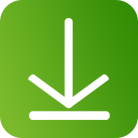
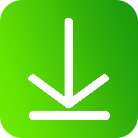
Changing the green-download image, adding settings to the settings dropdown menu, adding event handler for loading errors

diff --git a/Organic Browser/Organic Browser/Controls/SettingsDropdownControl.xaml b/Organic Browser/Organic Browser/Controls/SettingsDropdownControl.xaml
@@ -26,8 +26,8 @@
     <Border BorderThickness="0.5" BorderBrush="#FF131313">
     <StackPanel Orientation="Vertical">
         <Label x:Name="setHomePageLabel">Set as home page</Label>
-        <Label>Setting2</Label>
-        <Label>Setting3</Label>
+        <Label x:Name="history">History</Label>
+            <Label x:Name="exit">Exit</Label>
     </StackPanel>
     </Border>
 </UserControl>

diff --git a/Organic Browser/Organic Browser/Utils/BrowserTab.cs b/Organic Browser/Organic Browser/Utils/BrowserTab.cs
@@ -17,7 +17,7 @@ namespace Organic_Browser.Utils
         public ChromiumWebBrowser WebBrowser { get; set; }          // Web Browser control
 
         // Private -  Read only data
-        private readonly Regex UrlRegex = new Regex(@"^(http:\/\/www\.|https:\/\/www\.|http:\/\/|https:\/\/)?[a-z0-9]+([\-\.]{1}[a-z0-9]+)*\.[a-z]{2,5}(:[0-9]{1,5})?(\/.*)?$", RegexOptions.Compiled | RegexOptions.Compiled);
+        private readonly Regex UrlRegex = new Regex(@"^(http:\/\/www\.|https:\/\/www\.|http:\/\/|https:\/\/)?[a-z0-9]+([\-\.]{1}[a-z0-9]+)*\.[a-z]{2,5}(:[0-9]{1,5})?(\/.*)?$", RegexOptions.Compiled | RegexOptions.Compiled | RegexOptions.IgnoreCase);
 
         /// <summary>
         /// Browser tab constructor
@@ -72,15 +72,16 @@ namespace Organic_Browser.Utils
         private void HandleEvents()
         {
             // Navigation bar events
-            this.NavigationBar.urlTexBox.KeyUp += UrlTextBox_KeyUp;                             // Handle key pressed in the url textbox
-            this.NavigationBar.backBtn.MouseLeftButtonUp += NavBar_BackBtnPress;                // Handle mouse click on Back button
-            this.NavigationBar.forwardBtn.MouseLeftButtonUp += NavBar_ForwardBtnPress;          // Handle mouse click on Forward button
-            this.NavigationBar.refreshBtn.MouseLeftButtonUp += NavBar_RefreshBtnPress;          // Handle mouse click on Refresh button
-            this.NavigationBar.homeBtn.MouseLeftButtonUp += NavBar_HomeBtnPress;                // Handle mouse click on Home button
-            this.NavigationBar.settingsMenu.setHomePageLabel.MouseDown += NavBar_SetAsHomePress;  // Handle mouse click on Set as home setting
+            this.NavigationBar.urlTexBox.KeyUp += UrlTextBox_KeyUp;                                 // Handle key pressed in the url textbox
+            this.NavigationBar.backBtn.MouseLeftButtonUp += NavBar_BackBtnPress;                    // Handle mouse click on Back button
+            this.NavigationBar.forwardBtn.MouseLeftButtonUp += NavBar_ForwardBtnPress;              // Handle mouse click on Forward button
+            this.NavigationBar.refreshBtn.MouseLeftButtonUp += NavBar_RefreshBtnPress;              // Handle mouse click on Refresh button
+            this.NavigationBar.homeBtn.MouseLeftButtonUp += NavBar_HomeBtnPress;                    // Handle mouse click on Home button
+            this.NavigationBar.settingsMenu.setHomePageLabel.MouseDown += NavBar_SetAsHomePress;    // Handle mouse click on Set as home setting
             
             // Web browser events
-            this.WebBrowser.PreviewMouseLeftButtonUp += WebBrowser_MouseLeftButtonUp;           // Handle mouse click on the web browser
+            this.WebBrowser.PreviewMouseLeftButtonUp += WebBrowser_MouseLeftButtonUp;               // Handle mouse click on the web browser
+            this.WebBrowser.LoadError += WebBrowser_LoadError;
         }
 
         #region Event handlers
@@ -164,6 +165,21 @@ namespace Organic_Browser.Utils
         private void NavBar_RefreshBtnPress(object obj, MouseButtonEventArgs e)
         {
             this.WebBrowser.ReloadCommand.Execute(null);
+        }
+
+        /// <summary>
+        /// Executes when loading error is occured.
+        /// 
+        /// Basically, show an html page for each error.
+        /// </summary>
+        /// <param name="sender"></param>
+        /// <param name="e"></param>
+        private void WebBrowser_LoadError(object sender, CefSharp.LoadErrorEventArgs e)
+        {
+            if (e.ErrorCode == CefSharp.CefErrorCode.NameNotResolved)
+            {
+                // TODO: Add error handler for Name Not Resolved
+            }
         }
         #endregion
     }

diff --git a/Organic Browser/Organic Browser/Utils/CefInitializer.cs b/Organic Browser/Organic Browser/Utils/CefInitializer.cs
@@ -30,6 +30,7 @@ namespace Organic_Browser.Utils
                 settings.CefCommandLineArgs.Add(command);
             }
 
+
             // Initialize Cef
             CefSharp.Cef.Initialize(settings);
         }
